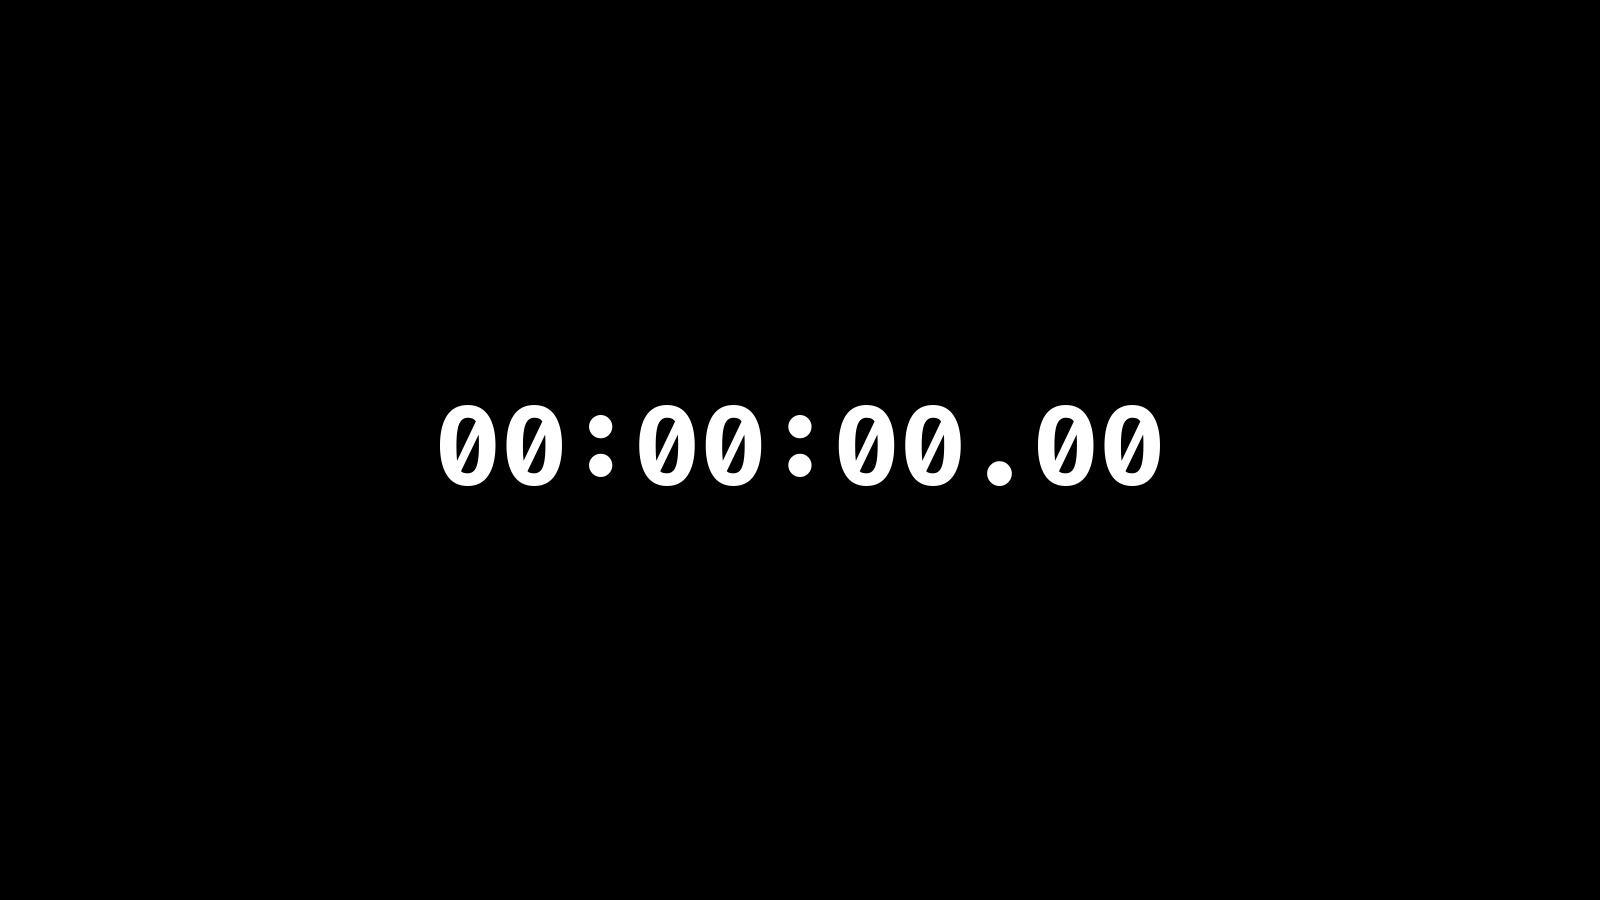
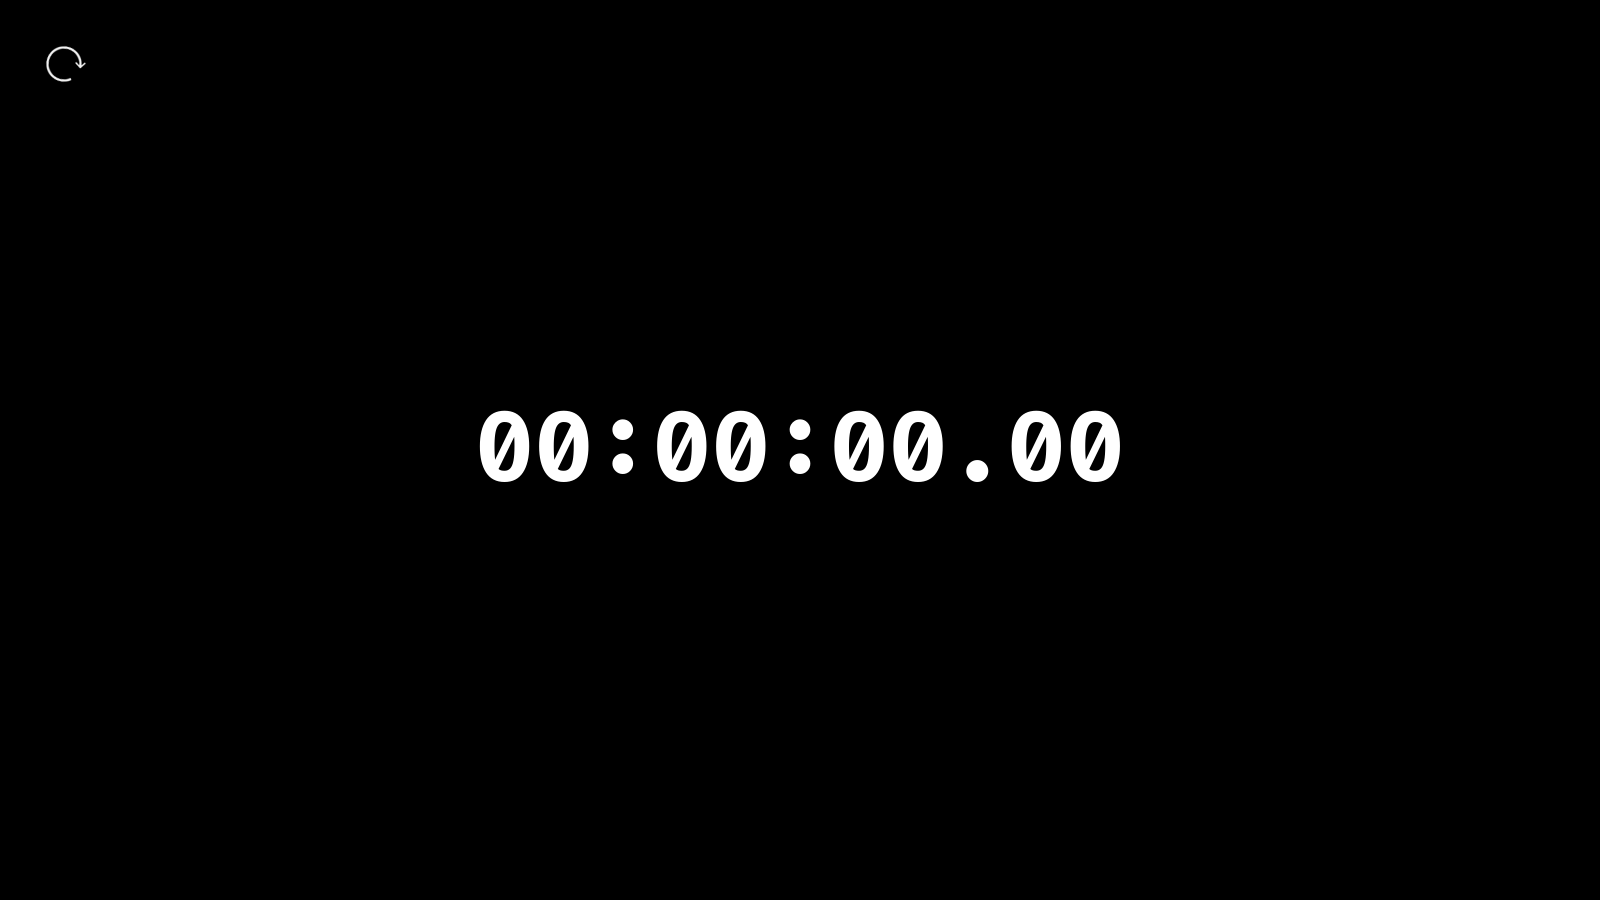
Adding keyboard support and reload button. ⌨ 🔁

Changed region(s): [[0.25, 0.4356, 0.75, 0.56], [0.0312, 0.0622, 0.0625, 0.0933]]

diff --git a/styles.css b/styles.css
@@ -38,14 +38,45 @@ body, .wrapper, #hidden-button {
 	50% { opacity: 0; }
 }
 
-@media (min-width: 1080px) and (orientation: landscape) {
-	:root {
-		font-size: 18px;
-	}
+#reload {
+	-webkit-tap-highlight-color: transparent;
+	position: fixed;
+	top: 2rem; left: 2rem;
+	width: 4rem; height: 4rem;
+	line-height: 4rem;
+	font-size: 2.5rem;
+	color: #000;
+	background-color: transparent;
+	border-radius: .5rem;
+	border: none;
+	outline: none;
+	cursor: pointer;
+	display: flex;
+	align-items: stretch;
+	justify-content: center;
+	text-align: center;
+	overflow: hidden;
+	z-index: 9999;
 }
 
-@media (max-width: 1080px) {
+#reload img {
+	position: absolute;
+	inset: 0;
+	margin: auto; padding: 0;
+	transform: rotate(-7deg);
+	max-height: 75%;
+	max-width: 75%;
+	width: auto; height: auto;
+	object-fit: contain;
+}
+
+@media screen and (orientation: portrait) {
 	:root {
 		font-size: 8px;
+	}
+	#reload {
+		top: calc(100% - 20rem);
+		left: 4rem;
+		width: 8rem; height: 8rem;
 	}
 }

diff --git a/main.js b/main.js
@@ -1,6 +1,7 @@
 let ms = 0, s = 0, m = 0, h = 0;
 let runner;
 let stopwatch = document.getElementById('stopwatch');
+const reloadButton = document.getElementById('reload');
 
 makeItBlink = (flag) => {
   flag == true ? stopwatch.classList.add("blink") :
@@ -55,3 +56,21 @@ clickIt = () => {
    start()  // Start
   : stop(); // Pause
 }
+
+reload = () => {
+  runner ?
+   (clearInterval(runner), runner = false)
+  : makeItBlink(false);
+  ms = 0, s = 0, m = 0, h = 0;
+  updateDisplay(h, m, s, ms);
+}
+
+window.addEventListener('keydown', (pressed) => {
+  if (pressed.code == 'Escape' || pressed.code == 'Backspace') reload();
+});
+
+window.addEventListener('keypress', (pressed) => { // Detects only some keys
+  if (pressed.code != 'Space' && pressed.code != 'Enter')
+   if (!pressed.repeat) // Prevent holding a key and breaking it
+    (pressed.key == 'r' || pressed.key == 'R') ? reload() : clickIt()
+});

diff --git a/index.html b/index.html
@@ -11,7 +11,8 @@
 		<div class="wrapper">
 			<h1 id="stopwatch">00:00:00.00</h1>
 		</div>
-		<button type="button" id="hidden-button" onclick="clickIt()"></button>
+		<button type="button" id="hidden-button" onclick="clickIt()" autofocus></button>
+		<button id="reload" onclick="reload()"><img src="reload.png" alt="reload button"></button>
 	</body>
 	<script src="main.js"></script>
 </html>

diff --git a/README.md b/README.md
@@ -5,19 +5,19 @@ The stopwatch using the system's monospaced font, _Fira Code_
 ![stopwatch_screenshot](stopwatch_screenshot.png)
 
 ## Installation
-Clone this repository, then open the **index.html** file in your browser. 
+Clone this repository, then open the **index.html** file in your browser.
 
 ## About
 I created this app, because I could not found a stopwatch app, that worked how a digital stopwatch do.
-It blinks, can be stopped or restarted. Mainly, it is really simple, doing just the thing it was meant to.
-I pretend to add a reload button in the future, and make it a mobile native app using something like _Ionic_. \
+It blinks, can be stopped or restarted. Now, it has keyboard shortcuts. Mainly, it is really simple, doing just the thing it was meant to.
+I pretend to make it a mobile native app using something like _Ionic_. \
 For any demands, just contact me via email.
 
 ## Usage
-Just click over it, and it will start. \
-To stop/pause it, click over it again. \
-To reload, reload the page. \
+Just click over it or press any key, and it will start. \
+To stop/pause it, click over it or press any key again. \
+To reload, reload the page or, press 'r' or 'Esc' or 'Backspace'. \
 If you want, you can note your times/laps using a note application.
 It can also be used for testing your reaction time speeds, and improve concentration, surprisingly. \
 And maybe to benchmark hardware response speeds. \
-In my tests I realized that screens are faster than mouses, or can help you be faster, at least.
+In my tests I realized that screens are better than mouses in making you be faster, apparently.
